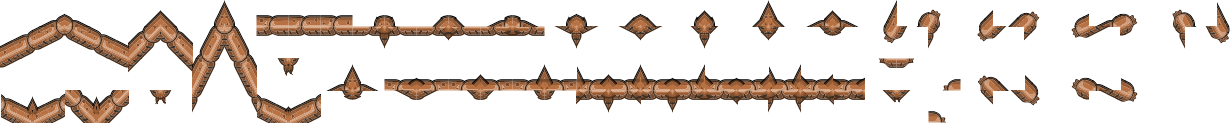
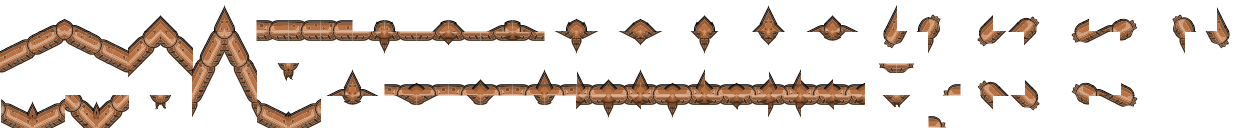
NO MESSAGE SET

Changed region(s): [[0.0, 0.0244, 1.0, 1.0], [0.6797, 0.4634, 0.7415, 0.5854], [0.7415, 0.9024, 0.7724, 1.0]]

diff --git a/levelViewer/viewer.js b/levelViewer/viewer.js
@@ -3,7 +3,7 @@
 localStorage.lv_ts ??= "32"
 localStorage.lv_cols ??= "62"
 localStorage.lv_place ??=
-  '{"0":{"tile_1583.png":{"col":0,"row":0,"padX":0,"padY":0},"tile_4235.png":{"col":0,"row":31,"padX":0,"padY":0},"tile_6259.png":{"col":0,"row":12,"padX":0,"padY":0},"tile_1827.png":{"col":0,"row":24,"padX":0,"padY":0},"tile_5871.png":{"col":0,"row":28,"padX":0,"padY":0},"tile_734.png":{"col":9,"row":15,"padX":0,"padY":0}},"1":{"tile_1583.png":{"col":0,"row":0,"padX":0,"padY":0},"tile_4235.png":{"col":0,"row":31,"padX":0,"padY":0},"tile_6259.png":{"col":0,"row":12,"padX":0,"padY":0},"tile_1827.png":{"col":0,"row":24,"padX":0,"padY":0},"tile_5871.png":{"col":0,"row":28,"padX":0,"padY":0},"tile_734.png":{"col":9,"row":15,"padX":0,"padY":0}},"2":{"tile_3682.png":{"col":0,"row":28,"padX":0,"padY":0},"tile_5783.png":{"col":0,"row":0,"padX":0,"padY":0},"tile_551.png":{"col":0,"row":31,"padX":0,"padY":0},"tile_3186.png":{"col":0,"row":12,"padX":0,"padY":0},"tile_1995.png":{"col":0,"row":24,"padX":0,"padY":0}},"3":{"tile_3682.png":{"col":0,"row":28,"padX":0,"padY":0},"tile_5783.png":{"col":0,"row":0,"padX":0,"padY":0},"tile_551.png":{"col":0,"row":31,"padX":0,"padY":0},"tile_3186.png":{"col":0,"row":12,"padX":0,"padY":0},"tile_1995.png":{"col":0,"row":24,"padX":0,"padY":0}},"4":{"tile_4141.png":{"col":0,"row":28,"padX":0,"padY":0},"tile_5314.png":{"col":0,"row":0,"padX":0,"padY":0},"tile_4681.png":{"col":0,"row":31,"padX":0,"padY":0},"tile_5741.png":{"col":0,"row":24,"padX":0,"padY":0},"tile_3090.png":{"col":0,"row":12,"padX":0,"padY":0}},"5":{"tile_5314.png":{"col":0,"row":0,"padX":0,"padY":0},"tile_4681.png":{"col":0,"row":31,"padX":0,"padY":0},"tile_5741.png":{"col":0,"row":24,"padX":0,"padY":0},"tile_3090.png":{"col":0,"row":12,"padX":0,"padY":0},"tile_4141.png":{"col":0,"row":28,"padX":0,"padY":0}},"9":{"tile_4862.png":{"col":0,"row":28,"padX":0,"padY":0},"tile_4064.png":{"col":0,"row":12,"padX":0,"padY":0},"tile_734.png":{"col":0,"row":31,"padX":0,"padY":0},"tile_4567.png":{"col":0,"row":0,"padX":0,"padY":0},"tile_1733.png":{"col":0,"row":24,"padX":0,"padY":0}},"tile_4862.png":{"col":0,"row":28,"padX":0,"padY":0},"tile_4064.png":{"col":0,"row":12,"padX":0,"padY":0},"tile_734.png":{"col":9,"row":15,"padX":0,"padY":0},"tile_4567.png":{"col":0,"row":0,"padX":0,"padY":0}}'
+  '{"0":{"tile_1583.png":{"col":0,"row":0,"padX":0,"padY":0},"tile_4235.png":{"col":0,"row":31,"padX":0,"padY":0},"tile_6259.png":{"col":0,"row":12,"padX":0,"padY":0},"tile_1827.png":{"col":0,"row":24,"padX":0,"padY":0},"tile_5871.png":{"col":0,"row":28,"padX":0,"padY":0},"tile_734.png":{"col":9,"row":15,"padX":0,"padY":0}},"1":{"tile_1583.png":{"col":0,"row":0,"padX":0,"padY":0},"tile_4235.png":{"col":0,"row":31,"padX":0,"padY":0},"tile_6259.png":{"col":0,"row":12,"padX":0,"padY":0},"tile_1827.png":{"col":0,"row":24,"padX":0,"padY":0},"tile_5871.png":{"col":0,"row":28,"padX":0,"padY":0},"tile_734.png":{"col":9,"row":15,"padX":0,"padY":0}},"2":{"tile_3682.png":{"col":0,"row":28,"padX":0,"padY":0},"tile_5783.png":{"col":0,"row":0,"padX":0,"padY":0},"tile_551.png":{"col":0,"row":31,"padX":0,"padY":0},"tile_3186.png":{"col":0,"row":12,"padX":0,"padY":0},"tile_1995.png":{"col":0,"row":24,"padX":0,"padY":0}},"3":{"tile_3682.png":{"col":0,"row":28,"padX":0,"padY":0},"tile_5783.png":{"col":0,"row":0,"padX":0,"padY":0},"tile_551.png":{"col":0,"row":31,"padX":0,"padY":0},"tile_3186.png":{"col":0,"row":12,"padX":0,"padY":0},"tile_1995.png":{"col":0,"row":24,"padX":0,"padY":0}},"4":{"tile_4141.png":{"col":0,"row":28,"padX":0,"padY":0},"tile_5314.png":{"col":0,"row":0,"padX":0,"padY":0},"tile_4681.png":{"col":0,"row":31,"padX":0,"padY":0},"tile_5741.png":{"col":0,"row":24,"padX":0,"padY":0},"tile_3090.png":{"col":0,"row":12,"padX":0,"padY":0}},"5":{"tile_5314.png":{"col":0,"row":0,"padX":0,"padY":0},"tile_4681.png":{"col":0,"row":31,"padX":0,"padY":0},"tile_5741.png":{"col":0,"row":24,"padX":0,"padY":0},"tile_3090.png":{"col":0,"row":12,"padX":0,"padY":0},"tile_4141.png":{"col":0,"row":28,"padX":0,"padY":0}},"6":{"tile_1490.png":{"col":0,"row":28,"padX":0,"padY":0},"tile_4968.png":{"col":0,"row":0,"padX":0,"padY":0},"tile_5562.png":{"col":0,"row":31,"padX":0,"padY":0},"tile_2289.png":{"col":0,"row":12,"padX":0,"padY":0},"tile_928.png":{"col":0,"row":24,"padX":0,"padY":0}},"9":{"tile_4862.png":{"col":0,"row":28,"padX":0,"padY":0},"tile_4064.png":{"col":0,"row":12,"padX":0,"padY":0},"tile_734.png":{"col":0,"row":31,"padX":0,"padY":0},"tile_4567.png":{"col":0,"row":0,"padX":0,"padY":0},"tile_1733.png":{"col":0,"row":24,"padX":0,"padY":0}},"tile_4862.png":{"col":0,"row":28,"padX":0,"padY":0},"tile_4064.png":{"col":0,"row":12,"padX":0,"padY":0},"tile_734.png":{"col":9,"row":15,"padX":0,"padY":0},"tile_4567.png":{"col":0,"row":0,"padX":0,"padY":0}}'
 localStorage.lv_unit ??= "tiles"
 localStorage.lv_colId ??= "0"
 localStorage.lv_colX ??= "1"

diff --git a/levelViewer/tilesets.js b/levelViewer/tilesets.js
@@ -38,4 +38,5 @@ window.TILE_SHEETS = [
   "tile_5741.png",
   "worm.png",
   "burger.png",
+  "cp.png",
 ]
